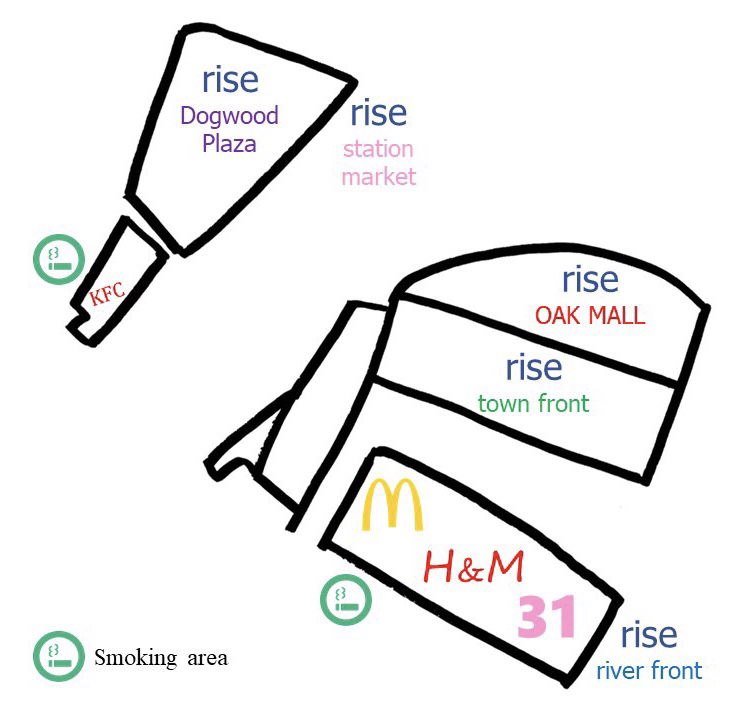
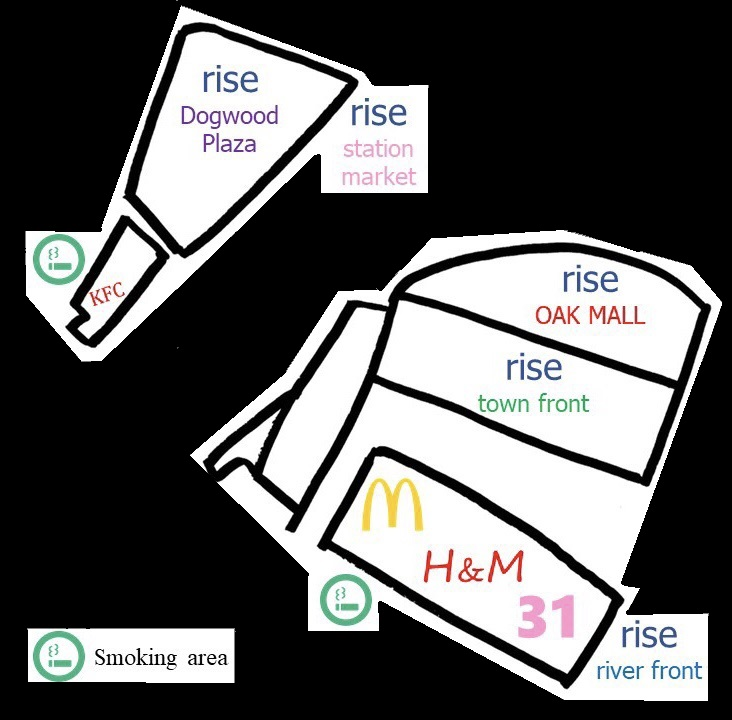
[completed] mappage

diff --git a/resources/views/contents/map.blade.php b/resources/views/contents/map.blade.php
@@ -12,17 +12,14 @@
 
 @section('content')
 
-<<<<<<< HEAD
-    <div class="titleformap"><h2>Map of Futakotamagawa</h2></div>
-=======
-
+    <div class="titleformap"><h2>Smoking areas in Futakotamagawa</h2></div>
 
 <div class="container" style="margin-top: 70px;">
-    <h2>二子玉川の喫煙所マップ</h2>
+    <h2>Click on map for more details!</h2>
 >>>>>>> master
      
     <div class="introduction">
-        <img src="{{secure_asset('/img/mapFULLedit.jpg')}}" alt="sample" usemap="#sample">
+        <img src="{{secure_asset('/img/mapFULLedit2.jpg')}}" alt="sample" usemap="#sample">
         
         <map name="sample">
             <area shape="poly" coords="100,30,76,178,94,200,345,299,396,157" href="#imageA" alt="map_a">
